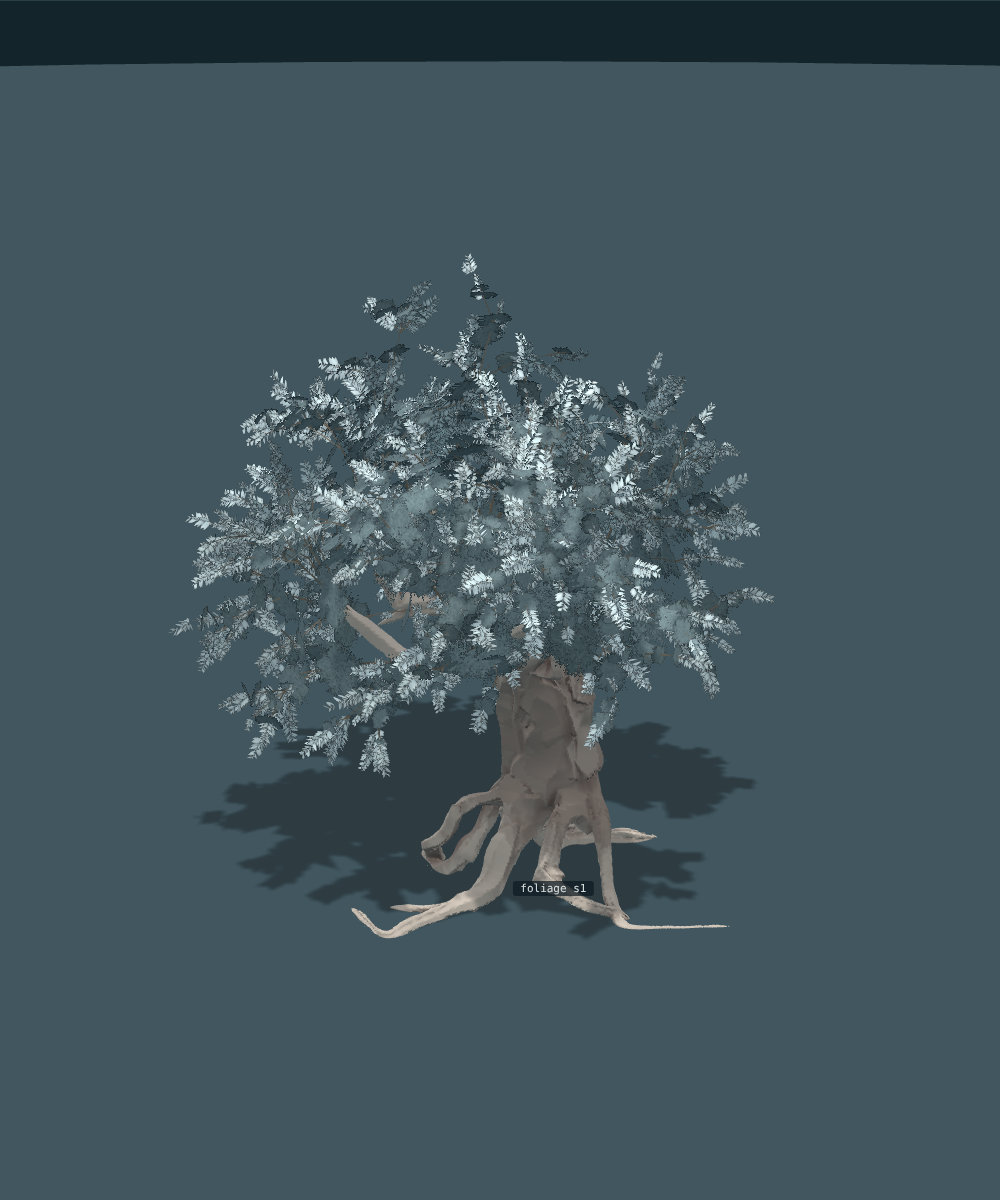
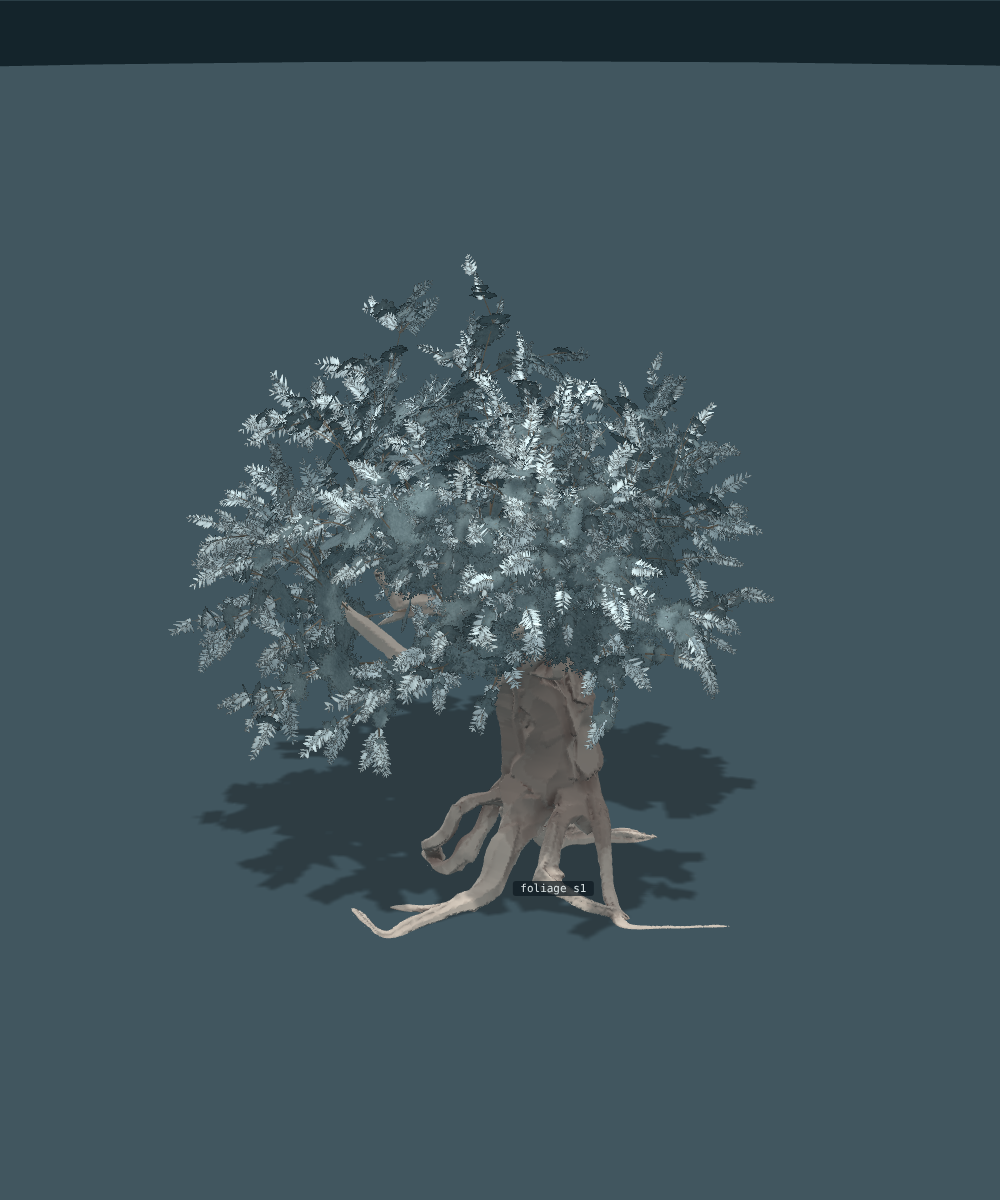
Clustering, and the floor that forbids it
`bunch` makes a seat follow close on the last one with some chance and
lengthens the gaps that are not short to match, so branchlets come in
clusters rather than at a constant interval. On a stub at `every` 0.07
it does what it should, at the same count.

It is off. At the seat density a crown wants it cannot work: a gap
shorter than the strand's own sample spacing is not shorter, and at
`every` 0.03 the gaps are already at that floor -- which is what the
earlier finding that 0.022 and 0.030 give the same tree was saying. The
short gap cannot shorten, only the long one can lengthen, and the dial
thinned the crown from 600 branchlets to 448 while clustering nothing.

Two wrong versions on the way, both the same kind of mistake. A
heavy-tailed gap: powering a uniform draw by 3 gives a tail of 2.2x the
mean, so it read as "more seats". Then the gap redrawn on every step
rather than once when a seat is taken, so the seat fired on the
smallest of a dozen draws and read as "more seats" again -- 70, 94, 191
across the range, where held properly it is 70, 69, 82.

The frond's four cells differed only in how many pairs they carried,
which is four near copies. `H` and `reach` vary with the cell now, so a
long slender frond and a short broad one are different leaves, and with
the mirror there are eight. Each ends in a terminal leaflet, where
before the rachis ran past the last pair as a bare spike.

Claude-Session: https://claude.ai/code/session_0192rgp75jGkttZXf7hEakip

Changed region(s): [[0.186, 0.2158, 0.775, 0.6475]]

diff --git a/runs/028-foliage/twigs.js b/runs/028-foliage/twigs.js
@@ -25,18 +25,30 @@
       orders: 3, kids: 3, shrink: 0.56, open: 1.5, distal: 2.2, sprout: 0.2, inner: 0.5,
       core: 0.5, cores: 2, bend: 0, ride: 0, long: 1, cant: 0.8, coreOn: 2, mid: null,
       sprigs: 2, size: 0.056, wide: 0.0055, seed: 23, R0: 0.2,
-      node: 1, turn: 0, pitch: 1.4, splay: 0.4, fall: 0.35, lie: 0, norm: 0.7, tuft: 2, light: 1, rim: 0.8, vary: 0.4 }, opt);
+      node: 1, turn: 0, pitch: 1.4, splay: 0.4, fall: 0.35, lie: 0, norm: 0.7, tuft: 2, light: 1, rim: 0.8, vary: 0.4, bunch: 0 }, opt);
     const r = rng(o.seed * 374761393);
 
     // where a branchlet may sprout: along a core branch, once the wood is thin enough to carry one
     const seats = [];
     for (const s of tree.strands) {
-      if (s.loop) continue; let since = 1e9;
+      if (s.loop) continue; let since = 1e9, gap = o.every;
       for (let k = Math.max(s.root, 1); k < s.K; k++) {
         const rho = s.rho[k]; if (rho > o.from * o.R0) { since = 1e9; continue; }
         const p = [s.X[k * 3], s.X[k * 3 + 1], s.X[k * 3 + 2]];
         const step = H(p[0] - s.X[k * 3 - 3], p[1] - s.X[k * 3 - 2], p[2] - s.X[k * 3 - 1]);
-        since += step; if (since < o.every) continue; since = 0;
+        // `bunch`: the chance the next gap is a short one, so branchlets come in clusters with bare wood
+        // between rather than at a constant interval, which is a comb and not a branch. It works on a stub at
+        // `every` 0.07 -- twos and threes with gaps -- and it is OFF, because at the seat density a crown wants
+        // it cannot work at all. A gap shorter than the strand's own sample spacing is not shorter, and at
+        // `every` 0.03 the gaps are ALREADY at that floor: the short gap cannot shorten, only the long gap can
+        // lengthen, and the dial thins the crown by a quarter instead of clustering it. Clustering needs seats
+        // that are not already as close as the wood can carry them.
+        // Before that it was a heavy-tailed gap, which did not cluster either: powering a uniform draw by 3
+        // gives a tail of only 2.2x the mean.
+        // drawn ONCE when a seat is taken and held until the next, not redrawn every step: redrawn, the seat
+        // fires on the smallest of a dozen draws and the dial reads as "more seats" whatever its shape.
+        since += step; if (since < gap) continue;
+        since = 0; gap = o.bunch ? (r() < o.bunch ? o.every * 0.2 : o.every * (1 + 1.7 * o.bunch)) : o.every;
         // where along the branch: a tree carries its fine wood at the ends, not evenly down its length. Without
         // this every branch is furred along its whole run and the tree is a hairy hand.
         const tipness = (k - s.root) / Math.max(1, s.K - 1 - s.root);

diff --git a/runs/028-foliage/atlas.js b/runs/028-foliage/atlas.js
@@ -44,7 +44,7 @@
   // RIGHT half: the left one has to be turned past the half-circle to face the other way.
   function drawFrond(x, H, reach0, pairs, rnd, base, span) {
     x.strokeStyle = leafTone(rnd, base, span * 0.4); x.lineWidth = Math.max(0.7, H * 0.011);
-    x.beginPath(); x.moveTo(0, 0); x.lineTo(0, -H); x.stroke();
+    x.beginPath(); x.moveTo(0, 0); x.lineTo(0, -H * 0.97); x.stroke();
     for (let i = 0; i < pairs; i++) {
       const v = (i + 0.4) / (pairs + 0.25), y = -v * H, reach = reach0 * Math.pow(1 - v * 0.55, 0.8);
       for (const sgn of [-1, 1]) {
@@ -55,6 +55,11 @@
         x.fillStyle = leafTone(rnd, base, span); drawLeaf(x, ll, lw); x.restore();
       }
     }
+    // a frond ends in a terminal leaflet, not in a bare spike of rachis
+    x.save(); x.translate(0, -H * 0.93); x.rotate(-Math.PI / 2);
+    x.fillStyle = leafTone(rnd, base, span);
+    drawLeaf(x, reach0 * 0.52 * (0.85 + 0.3 * rnd()), reach0 * 0.11);
+    x.restore();
   }
 
   // TIER TWO's cell: one frond, four of them, at a size where a single card is a readable spray.
@@ -62,8 +67,12 @@
     const c = document.createElement('canvas'); c.width = c.height = 512; const x = c.getContext('2d');
     const rnd = (() => { let s = 90210; return () => { s = (s * 1103515245 + 12345) & 0x7fffffff; return s / 0x7fffffff; }; })();
     for (let cell = 0; cell < 4; cell++) {
-      x.save(); x.translate((cell & 1) * 256 + 128, (cell >> 1) * 256 + 240);
-      drawFrond(x, 206, 100, 8 + (cell % 4), rnd, 214, 38);
+      // the four cells differ in more than how many pairs they carry: a long slender frond and a short broad
+      // one are different leaves, and with the mirror that is eight to draw the garnish from rather than four
+      // near-copies.
+      const H = 196 + cell * 10, reach = 118 - cell * 11;
+      x.save(); x.translate((cell & 1) * 256 + 128, (cell >> 1) * 256 + 246 - (206 - H) * 0.5);
+      drawFrond(x, H, reach, 7 + cell * 2, rnd, 214, 38);
       x.restore();
     }
     const t = new T.CanvasTexture(c); t.anisotropy = 8; t.encoding = T.sRGBEncoding; return t;

diff --git a/LOG.md b/LOG.md
@@ -5472,3 +5472,45 @@ beyond four cells and their mirrors. `deep` bakes into the texture what
 is really light failing to reach the inside of a crown, and so cannot
 answer to where the sun is. No baked atlas with normal and translucency
 maps. No LOD chain.
+
+## Clustering, and a floor that forbids it
+
+Branchlet seats arrive at a constant interval, which is a comb and not
+a branch, so `bunch` makes the next gap a short one with some chance
+and lengthens the gaps that are not short to match. On a stub at
+`every` 0.07 it does what it should: twos and threes with bare wood
+between, at the same count.
+
+It is off, because at the seat density a crown wants it cannot work at
+all. A gap shorter than the strand's own sample spacing is not shorter.
+At `every` 0.03 the gaps are ALREADY at that floor -- that is what the
+earlier finding about `every` 0.022 and 0.030 giving the same tree was
+saying -- so the short gap cannot shorten and only the long gap can
+lengthen. The dial thinned the crown by a quarter, 600 branchlets to
+448, and clustered nothing. Clustering needs seats that are not already
+as close as the wood can carry them, which would mean resampling the
+strands finer, which is a change to the tree and not to the foliage.
+
+Two wrong versions before that one, both the same kind of mistake:
+
+- A heavy-tailed gap, the obvious first try. Powering a uniform draw by
+  3 gives a tail of only 2.2 times the mean, so it read as "more
+  seats" and nothing else.
+- The gap redrawn on EVERY step rather than once when a seat is taken.
+  The seat then fires on the smallest of a dozen draws, so whatever
+  shape the distribution has, the dial reads as "more seats". Counts
+  went 70, 94, 191 across the range; held properly they go 70, 69, 82,
+  which is a dial that changes the arrangement and not the density.
+
+And a confound in the bench, caught before it was believed: the light
+test was still on, culling the stub's seats by a crown geometry a stub
+does not have. A grid about seat spacing has to switch it off.
+
+### The frond's four cells
+
+They differed only in how many pairs they carried, which is four near
+copies. A long slender frond and a short broad one are different
+leaves: `H` and `reach` now vary with the cell too, and with the mirror
+that is eight to draw the garnish from. Each ends in a terminal
+leaflet, where before the rachis ran past the last pair as a bare
+spike.
